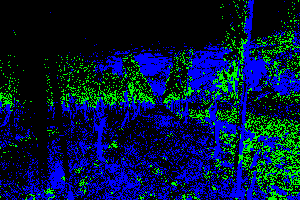
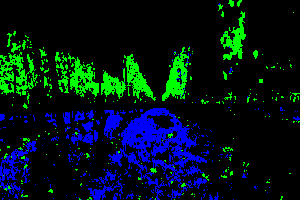
used lab distance

diff --git a/vinepilot/tools/autoseg/autoseg.py b/vinepilot/tools/autoseg/autoseg.py
@@ -6,17 +6,21 @@ from vinepilot.config import Project
 
 class AutoSeg():
     def __init__(self) -> None:
+        #Parameters
+        self.threshold = 45
+        
+        #Classes
         self.classes: dict = {
-            #Drivable Area
+            #Drivable Area (Lab colors)
             "drivable": {
                 #"dirt": [(111,89,66)],
-                "grass": [(0,100,0)],
-                #"asphalt": [(107,84,94)]
+                "grass": (57, -58, 58),
+                #"asphalt": (59, 9, -6)
             },
 
-            #Grapevines
+            #Grapevines (Lab colors)
             "grapevine": {
-                "leaves": [(100,0,0)],
+                "leaves": (54, 31, 56),
                 #"trunk": [(83,94,105)],
                 #"trellis": [(81,94,103)]
             }
@@ -35,7 +39,19 @@ class AutoSeg():
     @staticmethod
     def lab2rgb(img: np.ndarray) -> np.ndarray:
         return np.array(cv2.cvtColor(img, cv2.COLOR_Lab2RGB))
-
+    
+    @staticmethod
+    def normalize_lab(img: np.ndarray) -> np.ndarray:
+        nimg: np.ndarray = np.zeros_like(img, dtype=int)
+        for i in range(img.shape[0]):
+            for j in range(img.shape[1]):
+                l, a, b = img[i][j]
+                l = int(l * 100/255)
+                a = a - 128
+                b = b - 128
+                nimg[i][j] = [l,a,b]
+        return np.array(nimg)
+        
     @staticmethod
     def normalize_luminace(lab_img: np.ndarray, L_value: int = 100) -> np.ndarray:
         img: np.ndarray = lab_img
@@ -43,14 +59,14 @@ class AutoSeg():
         return np.array(img)
     
     @staticmethod
-    def rgb_color_distance(rgb1: tuple, rgb2: tuple) -> float:
-        return np.linalg.norm(abs(np.array(rgb1)-np.array(rgb2)))
+    def lab_color_distance(lab1: tuple, lab2: tuple) -> float:
+        return np.linalg.norm(abs(np.array(lab1)[1:]-np.array(lab2)[1:]))
     
     def classify_pixel(self, pxl: tuple, threshold: float) -> str | None:
         distances: list[str, float] = []
         for parent_class in self.classes:
             for sub_class in self.classes[parent_class]:
-                distances.append([parent_class, self.rgb_color_distance(pxl, self.classes[parent_class][sub_class])])
+                distances.append([parent_class, self.lab_color_distance(pxl, self.classes[parent_class][sub_class])])
         min_class, min_dist = min(distances, key=lambda x: x[1])
         if min_dist > threshold: return None
         return str(min_class)
@@ -58,16 +74,18 @@ class AutoSeg():
     def __call__(self, img: np.ndarray) -> np.ndarray:
         #Normalize luminance
         x = self.rgb2lab(img)
+        x = self.normalize_lab(x)
         x = self.normalize_luminace(x)
-        x = self.lab2rgb(x)
 
         #Segmentation
         segimg: np.ndarray = np.zeros_like(img)
         for i in range(img.shape[0]):
             for j in range(img.shape[1]):
-                pred_class: str | None = self.classify_pixel(img[i][j], threshold=100)
+                pred_class: str | None = self.classify_pixel(x[i][j], threshold=self.threshold)
                 segimg[i][j] = self.colors[pred_class] if pred_class is not None else self.colors["none"]
         return np.array(segimg)
+    
+        #TODO: NN-Interpolation / Max Pool
 
 
 
